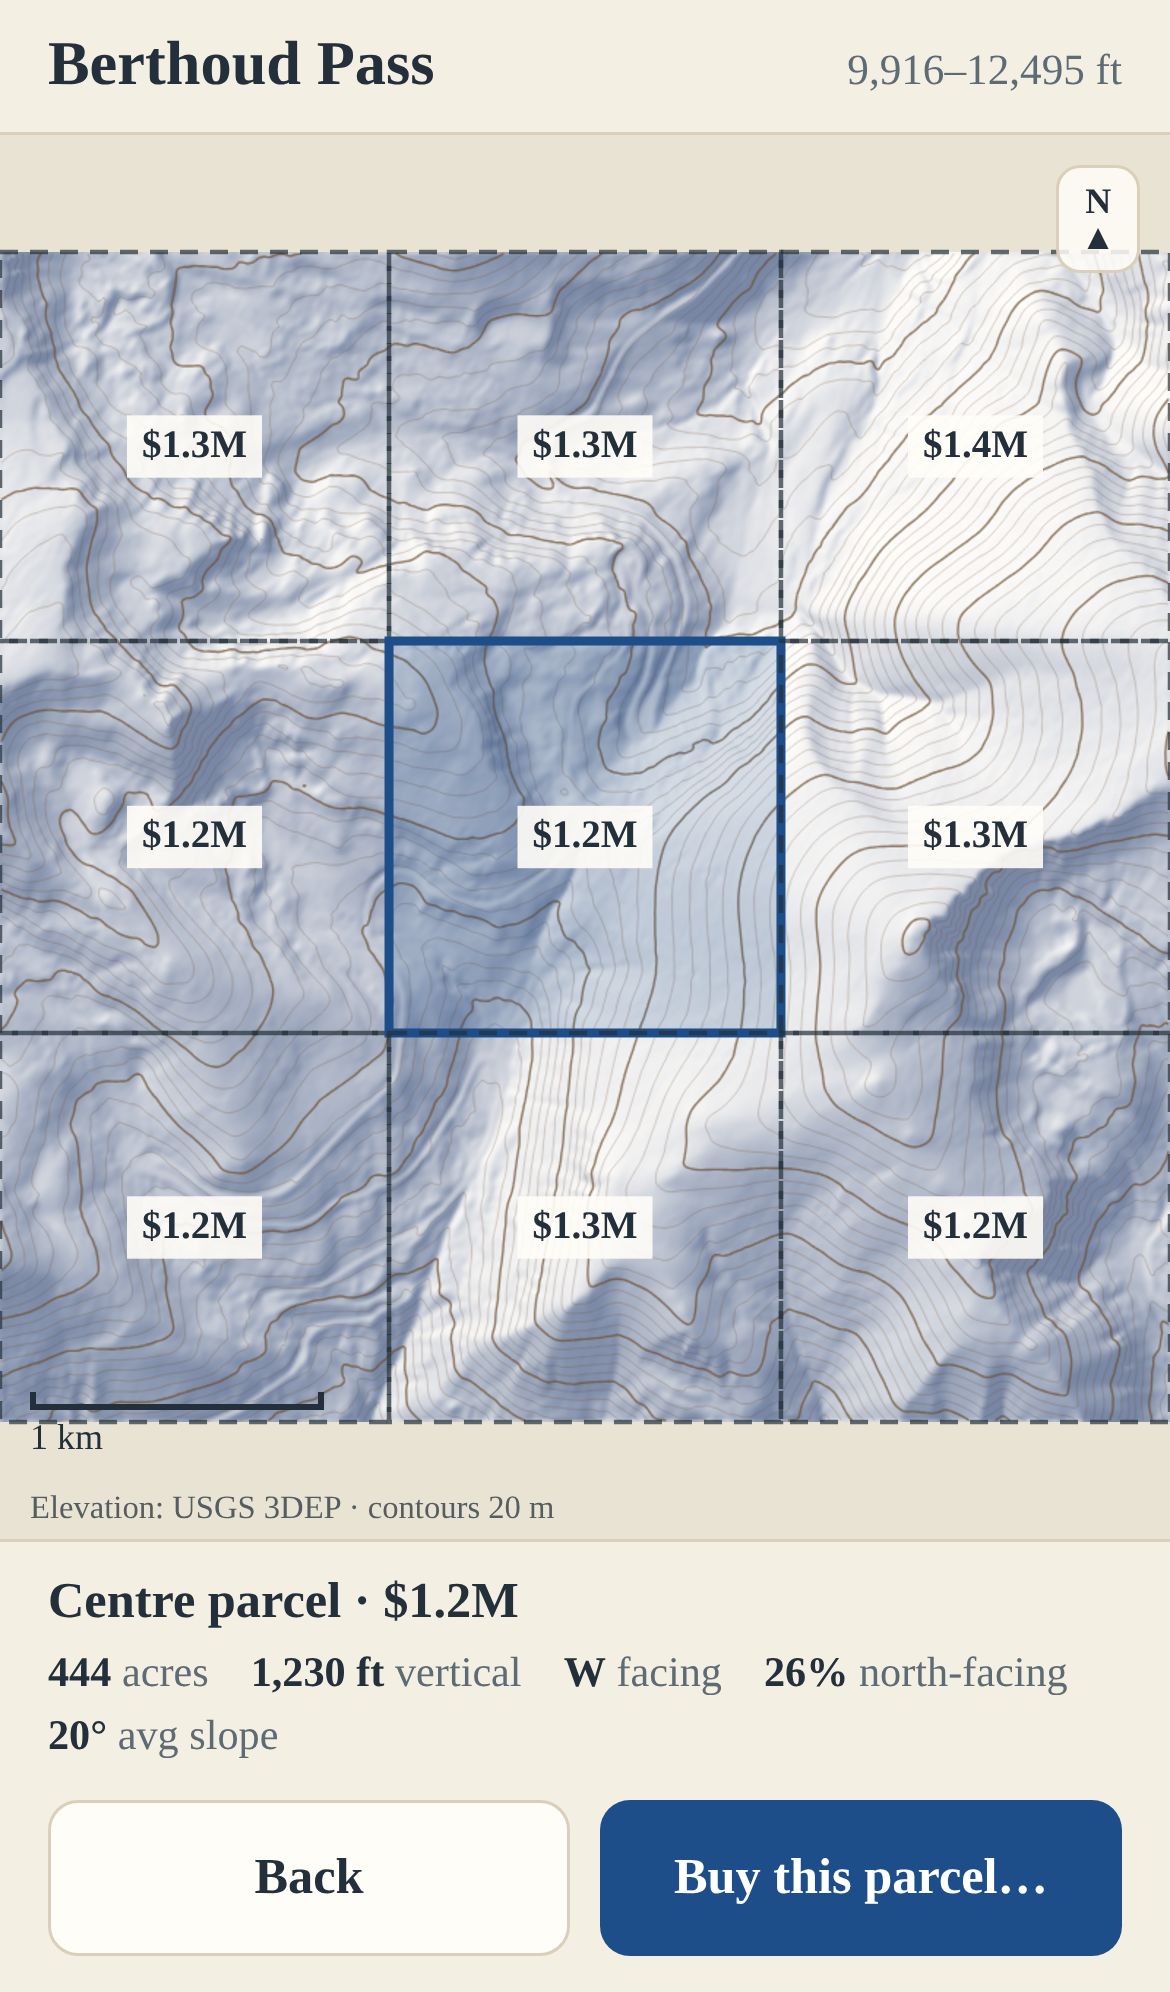
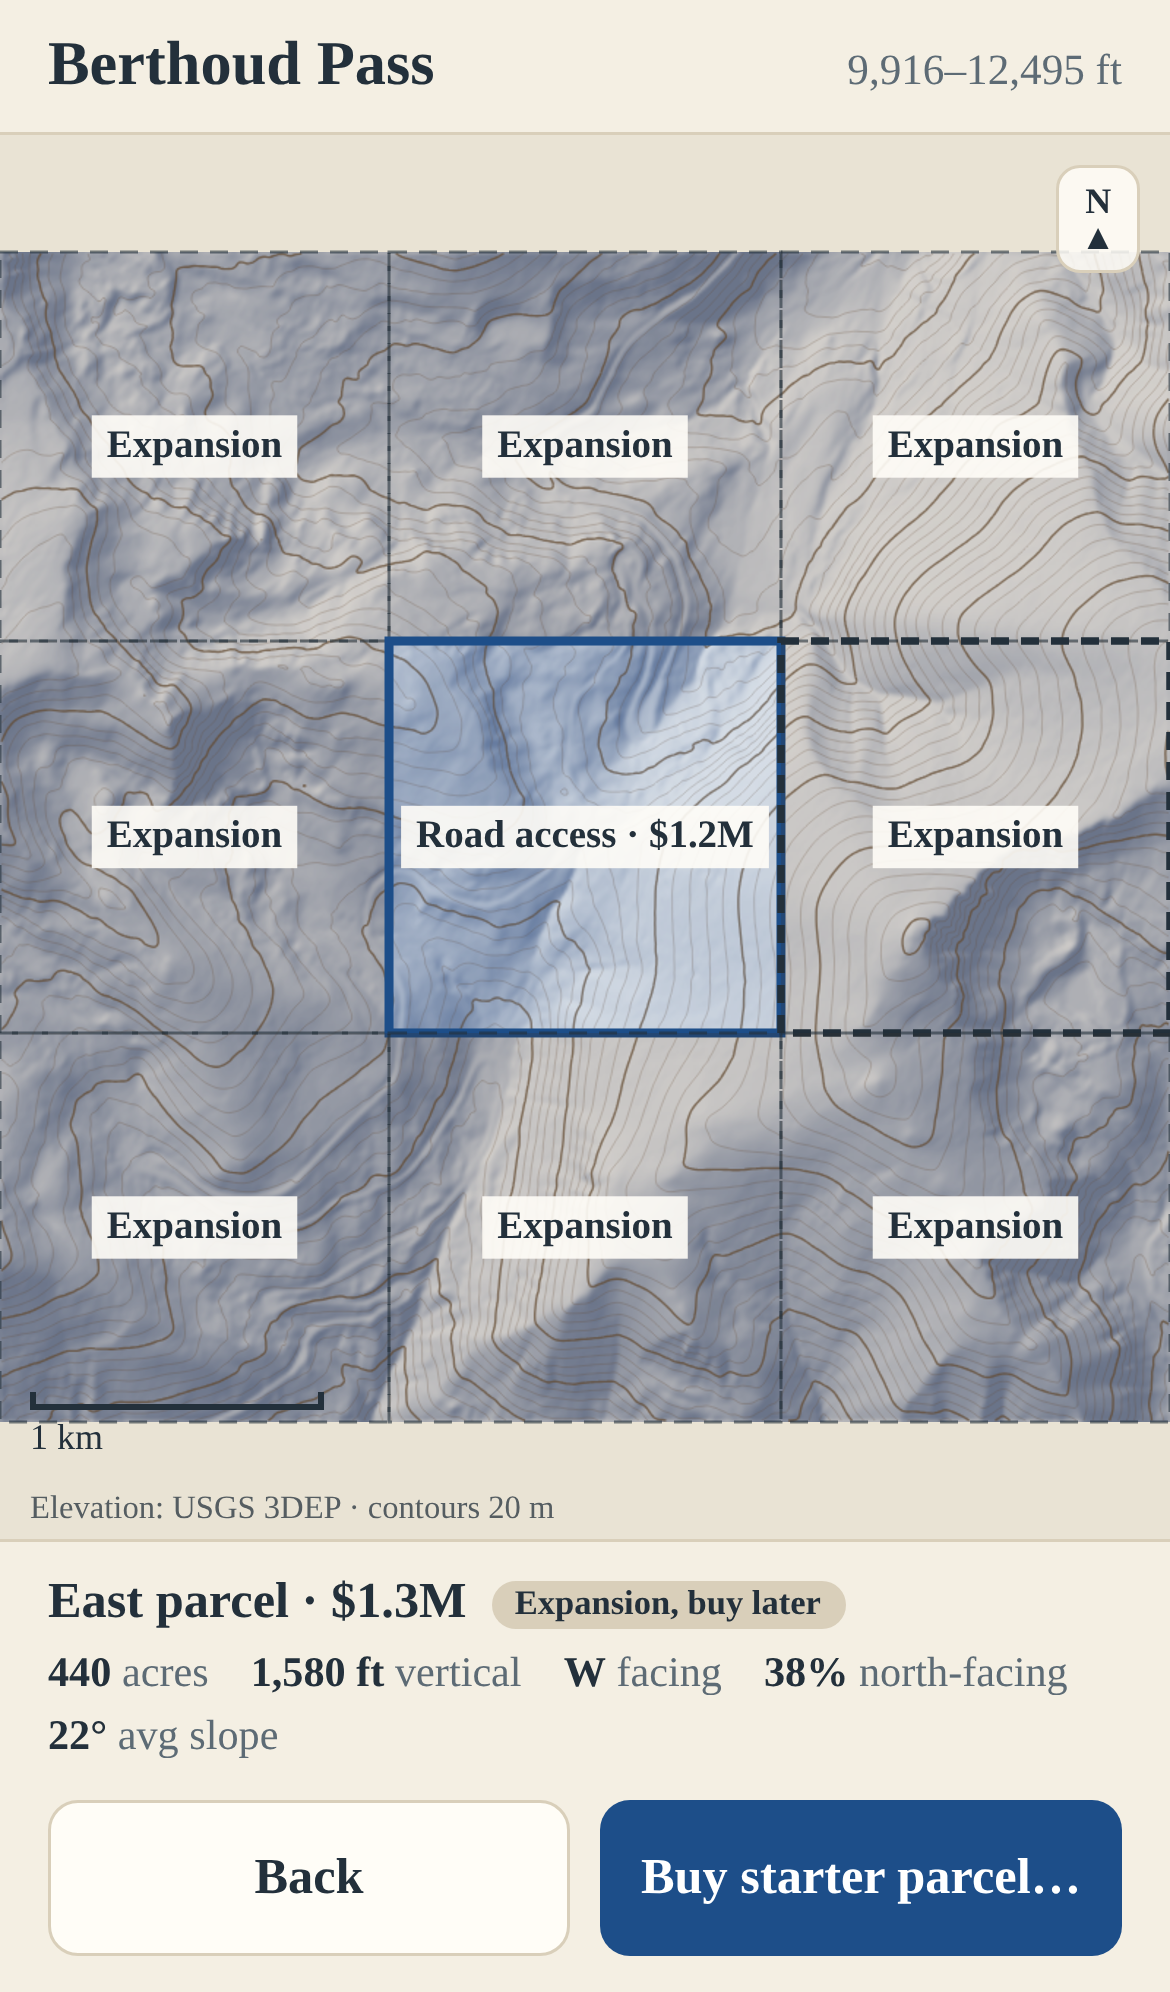
Starter parcel is always the site's road-access parcel
- Site.accessParcel / accessRoad; Berthoud Pass access is the centre parcel
  (terrain window is centred on the pass where US-40 crosses)
- buyableParcels(): expansion only into edge-adjacent parcels; tests
- Parcel screen marks the road-access starter and expansion parcels; resort map
  shows prices only on parcels you can buy next

Claude-Session: https://claude.ai/code/session_01CRQEDWdHQcTfCHBJv6VAxN

diff --git a/src/ui/ParcelMap.tsx b/src/ui/ParcelMap.tsx
@@ -1,6 +1,6 @@
 import { useState } from 'react'
 import {
-  computeParcels, landPrice, parcelAtCell, parcelLabel, siteForParcel,
+  buyableParcels, computeParcels, landPrice, parcelAtCell, parcelLabel, siteForParcel,
   type Parcel, type Region, type Site,
 } from '../sim'
 import { MapView, RENDER_SCALE } from './MapView'
@@ -35,50 +35,61 @@ function drawParcels(
   ctx.setLineDash([])
 }
 
-/** Pick a starter parcel on the real terrain map. */
+/** Show the parcel grid; the starter is always the site's road-access parcel. */
 export function ParcelPicker({ site, region, onBack, onChoose }: {
   site: Site; region: Region; onBack: () => void; onChoose: (p: Parcel) => void
 }) {
   const [parcels, setParcels] = useState<Parcel[]>([])
-  const [selected, setSelected] = useState<Parcel | null>(null)
+  const [focusId, setFocusId] = useState<string | null>(null)
   const price = (p: Parcel) => landPrice(siteForParcel(site, p), region).totalUsd
+  const starter = parcels.find((p) => p.id === site.accessParcel)
+  const focus = parcels.find((p) => p.id === (focusId ?? site.accessParcel)) ?? null
+  const isStarter = focus?.id === starter?.id
 
   return (
     <MapView
       terrainId={site.terrainId!}
       onBack={onBack}
       onTerrain={(t) => setParcels(computeParcels(t))}
-      onTapCell={(x, y) => setSelected(parcelAtCell(parcels, x, y) ?? null)}
+      onTapCell={(x, y) => setFocusId(parcelAtCell(parcels, x, y)?.id ?? null)}
       overlay={(ctx, scale) =>
         drawParcels(ctx, scale, parcels, (p) =>
-          p.id === selected?.id
-            ? { fill: 'rgba(29,78,137,0.18)', stroke: '#1d4e89', width: 3, label: usd(price(p)) }
-            : { stroke: 'rgba(35,48,59,0.7)', width: 1.5, dash: [6, 4], label: usd(price(p)) },
+          p.id === starter?.id
+            ? { fill: 'rgba(29,78,137,0.18)', stroke: '#1d4e89', width: 3, label: `Road access · ${usd(price(p))}` }
+            : {
+                fill: 'rgba(60,50,40,0.22)',
+                stroke: p.id === focus?.id ? '#23303b' : 'rgba(35,48,59,0.6)',
+                width: p.id === focus?.id ? 2.5 : 1,
+                dash: [6, 4],
+                label: 'Expansion',
+              },
         )
       }
       panel={
         <section className="map-panel">
-          {selected ? (
+          {focus && (
             <>
-              <h3>{parcelLabel(selected)} · {usd(price(selected))}</h3>
+              <h3>
+                {parcelLabel(focus)} · {usd(price(focus))}
+                {isStarter ? <span className="tag">Starter</span> : <span className="tag muted">Expansion, buy later</span>}
+              </h3>
+              {isStarter && site.accessRoad && <p className="hint">{site.accessRoad}. Your base area and parking go here.</p>}
               <div className="mini-stats">
-                <span><b>{selected.acres}</b> acres</span>
-                <span><b>{ft(selected.verticalFt)}</b> vertical</span>
-                <span><b>{selected.aspect}</b> facing</span>
-                <span><b>{Math.round(selected.northShare * 100)}%</b> north-facing</span>
-                <span><b>{Math.round(selected.meanSlopeDeg)}°</b> avg slope</span>
+                <span><b>{focus.acres}</b> acres</span>
+                <span><b>{ft(focus.verticalFt)}</b> vertical</span>
+                <span><b>{focus.aspect}</b> facing</span>
+                <span><b>{Math.round(focus.northShare * 100)}%</b> north-facing</span>
+                <span><b>{Math.round(focus.meanSlopeDeg)}°</b> avg slope</span>
               </div>
             </>
-          ) : (
-            <p className="hint">Tap a parcel to see its terrain and price. Start with one; buy neighbours later.</p>
           )}
         </section>
       }
       actions={
         <div className="row">
           <button className="btn" onClick={onBack}>Back</button>
-          <button className="btn primary" disabled={!selected} onClick={() => selected && onChoose(selected)}>
-            Buy this parcel…
+          <button className="btn primary" disabled={!starter} onClick={() => starter && onChoose(starter)}>
+            Buy starter parcel…
           </button>
         </div>
       }
@@ -87,8 +98,10 @@ export function ParcelPicker({ site, region, onBack, onChoose }: {
 }
 
 /** The player's resort map: owned parcels highlighted, the rest available. */
-export function ResortMap({ site, owned, onBack }: { site: Site; owned: string[]; onBack: () => void }) {
+export function ResortMap({ site, region, owned, onBack }: { site: Site; region: Region; owned: string[]; onBack: () => void }) {
   const [parcels, setParcels] = useState<Parcel[]>([])
+  const buyable = new Set(buyableParcels(parcels, owned).map((p) => p.id))
+  const price = (p: Parcel) => landPrice(siteForParcel(site, p), region).totalUsd
   return (
     <MapView
       terrainId={site.terrainId!}
@@ -99,7 +112,9 @@ export function ResortMap({ site, owned, onBack }: { site: Site; owned: string[]
         drawParcels(ctx, scale, parcels, (p) =>
           owned.includes(p.id)
             ? { stroke: '#1d4e89', width: 3 }
-            : { fill: 'rgba(60,50,40,0.28)', stroke: 'rgba(35,48,59,0.6)', width: 1, dash: [6, 4], label: 'For sale' },
+            : buyable.has(p.id)
+              ? { fill: 'rgba(60,50,40,0.2)', stroke: 'rgba(35,48,59,0.7)', width: 1.5, dash: [6, 4], label: `For sale · ${usd(price(p))}` }
+              : { fill: 'rgba(60,50,40,0.38)', stroke: 'rgba(35,48,59,0.5)', width: 1, dash: [6, 4] },
         )
       }
     />

diff --git a/src/ui/Screens.tsx b/src/ui/Screens.tsx
@@ -102,7 +102,7 @@ export function SiteDetail({ site, region, onBack, onMap, onBuy }: {
     ['Slope aspect', `${t.aspect}-facing`, aspectHint, 'aspect'],
     ['Average snowfall', `${t.avgSnowfallIn} in / year`, undefined, 'avgSnowfallIn'],
     site.terrainId
-      ? ['Whole map', usd(landPrice(site, region).totalUsd), `${t.acres.toLocaleString()} acres, sold as 9 parcels`]
+      ? ['Whole map', usd(landPrice(site, region).totalUsd), `${t.acres.toLocaleString()} acres in 9 parcels; you start with the road-access one`]
       : ['Asking price', usd(landPrice(site, region).totalUsd), `${t.acres.toLocaleString()} acres · breakdown on next screen`],
     ['To interstate', drive(t.driveToInterstateMin), undefined, 'driveToInterstateMin'],
     ['To nearest metro', drive(t.driveToMetroMin), t.nearestMetro, 'driveToMetroMin'],
@@ -119,7 +119,7 @@ export function SiteDetail({ site, region, onBack, onMap, onBuy }: {
             <button className="btn" onClick={onBack}>Back</button>
             {site.terrainId && <button className="btn" onClick={onMap}>Map</button>}
           </div>
-          <button className="btn primary" onClick={onBuy}>{site.terrainId ? 'Choose a parcel…' : 'Buy this land…'}</button>
+          <button className="btn primary" onClick={onBuy}>{site.terrainId ? 'See parcels & buy…' : 'Buy this land…'}</button>
         </>
       }
     >

diff --git a/src/sim/sites.ts b/src/sim/sites.ts
@@ -47,6 +47,13 @@ export interface Site {
   unverified?: (keyof SiteTraits)[]
   /** Where the verified values came from. */
   notes?: string
+  /**
+   * Parcel id with road access. It is always the starter parcel: base area,
+   * parking and the access road go here, and the resort expands outward from it.
+   */
+  accessParcel?: string
+  /** Short description of the road that reaches the access parcel. */
+  accessRoad?: string
 }
 
 // Region list approved by owner (step 2). baseLandUsdPerAcre values are PLACEHOLDERS:
@@ -71,6 +78,10 @@ export const SITES: Site[] = [
   {
     id: 'co-berthoud-pass', regionId: 'colorado', name: 'Berthoud Pass', placeholder: false,
     terrainId: 'co-berthoud-pass',
+    // The terrain window is centred on the pass summit, where US-40 crosses, so the
+    // highway runs through the centre parcel.
+    accessParcel: 'r1c1',
+    accessRoad: 'US-40 crosses the pass here',
     // verticalDropFt = max - min elevation in the 4 km x 4 km USGS 3DEP window
     // (3022-3808 m), i.e. an upper bound for the parcel, not a measured ski run.
     // acres = the 4 km x 4 km window (16 km^2 = 3954 acres).

diff --git a/src/sim/parcels.test.ts b/src/sim/parcels.test.ts
@@ -1,5 +1,5 @@
 import { describe, expect, it } from 'vitest'
-import { areAdjacent, aspectFromDeg, computeParcels, parcelAtCell, parcelLabel } from './parcels'
+import { areAdjacent, aspectFromDeg, buyableParcels, computeParcels, parcelAtCell, parcelLabel } from './parcels'
 import type { Terrain } from './terrain'
 
 /** Cone peak in the middle: each outer parcel faces away from the centre. */
@@ -50,6 +50,10 @@ describe('helpers', () => {
   it('knows adjacency (edges, not corners)', () => {
     expect(areAdjacent(ps[0], ps[1])).toBe(true)
     expect(areAdjacent(ps[0], ps[4])).toBe(false)
+  })
+  it('only lets the owner expand into edge neighbours', () => {
+    expect(buyableParcels(ps, ['r1c1']).map((p) => p.id).sort()).toEqual(['r0c1', 'r1c0', 'r1c2', 'r2c1'])
+    expect(buyableParcels(ps, ['r0c0']).map((p) => p.id).sort()).toEqual(['r0c1', 'r1c0'])
   })
   it('labels parcels by compass position', () => {
     expect(parcelLabel({ col: 0, row: 0 })).toBe('North-west parcel')

diff --git a/src/App.tsx b/src/App.tsx
@@ -1,5 +1,5 @@
 import { useState } from 'react'
-import { newGame, siteById, type GameState, type Parcel, type Region, type Site } from './sim'
+import { newGame, regionById, siteById, type GameState, type Parcel, type Region, type Site } from './sim'
 import { MapView } from './ui/MapView'
 import { ParcelPicker, ResortMap } from './ui/ParcelMap'
 import { PurchaseScreen, ResortHome } from './ui/Purchase'
@@ -101,7 +101,7 @@ export default function App() {
       if (!game.ownedParcels.length) {
         return <MapView terrainId={site.terrainId} backLabel="Back to resort" onBack={() => setNav({ screen: 'home' })} />
       }
-      return <ResortMap site={site} owned={game.ownedParcels} onBack={() => setNav({ screen: 'home' })} />
+      return <ResortMap site={site} region={regionById(site.regionId)!} owned={game.ownedParcels} onBack={() => setNav({ screen: 'home' })} />
     }
   }
 }

diff --git a/src/index.css b/src/index.css
@@ -114,3 +114,7 @@ h1 { font-size: 2rem; margin: 8px 0 0; letter-spacing: -0.01em; }
 .mini-stats { display: flex; flex-wrap: wrap; gap: 4px 14px; font-size: 0.88rem; color: var(--muted); }
 .mini-stats b { color: var(--ink); }
 .hint { margin: 0; color: var(--muted); font-size: 0.92rem; line-height: 1.4; }
+.tag { font-size: 0.72rem; font-weight: 600; margin-left: 8px; padding: 2px 8px; border-radius: 999px;
+  background: var(--accent); color: var(--accent-ink); vertical-align: middle; }
+.tag.muted { background: var(--line); color: var(--ink); }
+.map-panel .hint { margin-bottom: 4px; }

diff --git a/src/sim/parcels.ts b/src/sim/parcels.ts
@@ -98,3 +98,9 @@ export function parcelTraits(site: Site, p: Parcel): SiteTraits {
 
 /** A copy of the site whose traits describe just this parcel. */
 export const siteForParcel = (site: Site, p: Parcel): Site => ({ ...site, traits: parcelTraits(site, p) })
+
+/** Parcels the owner may buy next: not owned, and sharing an edge with an owned parcel. */
+export function buyableParcels(parcels: Parcel[], owned: string[]): Parcel[] {
+  const own = parcels.filter((p) => owned.includes(p.id))
+  return parcels.filter((p) => !owned.includes(p.id) && own.some((o) => areAdjacent(o, p)))
+}

diff --git a/src/sim/sites.test.ts b/src/sim/sites.test.ts
@@ -31,6 +31,12 @@ describe('site catalogue', () => {
   })
 })
 
+describe('access parcels', () => {
+  it('every real-terrain site defines a road-access starter parcel', () => {
+    for (const s of SITES.filter((x) => x.terrainId)) expect(s.accessParcel).toMatch(/^r[0-2]c[0-2]$/)
+  })
+})
+
 describe('aspectSnowRetention', () => {
   it('ranks north above east above south', () => {
     expect(aspectSnowRetention('N')).toBeCloseTo(1)
